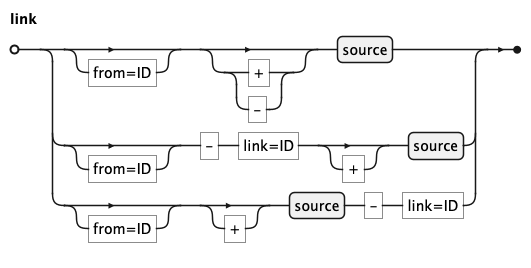
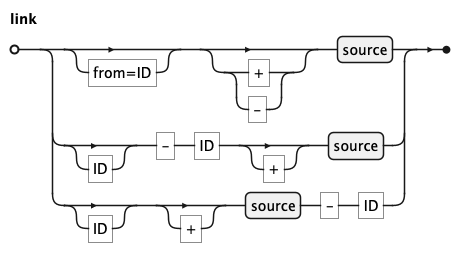
ebnf kql

diff --git a/docs/KQL_EBNF.md b/docs/KQL_EBNF.md
@@ -5,38 +5,38 @@
 
 ![query](kql/query.png )
 
-query is the root rule of KQL-Language
+Query is the root rule of KQL-Language
 - at least a query has one set
-- optionally a query hase one or more blocks
+- optionally a query has one or more blocks
 
 ## Block
 
 ![block](kql/block.png)
 
-block is an id followed by set or id followed by placeholder
+Block is an id followed by set or id followed by placeholder.
 
 ## Set
 
 ![set](kql/set.png)
 
-set is an operation on sets or a select
+Set is an operation on sets or a select.
 
 ## Select
 
 ![select](kql/select.png)
 
-select has four clauses:
+Select has four clauses:
 - FIND with one source optionally followed by a list of links
-- optionally FILTER clause
-- optionally FETCH clause
-- optionally LIMIT clause
+- optionally filter_ clause
+- optionally fetch_clause
+- optionally limit_clause
 
 
 ## Link
 
 ![link](kql/link.png)
 
-link has three alternatives:
+Link has three alternatives:
 - optionally from=ID of linked source, followed by source.
   If from=ID is missing, source is implicitly linked to the
   previous source in linklist.
@@ -49,23 +49,22 @@ source and criteria.
 Position of "-" indicates that the next ID is the criteria.
 This differentiates alternative two from three.
 
+## Logical Expression
+
+![logical_expression](kql/logical_expression.png)
+
+Logical_expression resolves to boolean result.
 
 ## Unary Logical Expression
 
 ![unary_logical_expression](kql/unary_logical_expression.png)
 
-
-## Logical Expression
-
-![logical_expression](kql/logical_expression.png)
-
-
-
-logical_expression to boolean result. It has four main alternatives:
+Unary_logical_expression resolves to boolean result. It has four main alternatives:
 - expression and operator optionally followed by an expression, a pair of expression or a set of expressions
 - recursive logical_expression in braces
 - exists clause
 - expression with placeholder, operation is optional, if missing placeholder must set operator too
+
 
 ## Limit Clause
 
@@ -78,6 +77,10 @@ logical_expression to boolean result. It has four main alternatives:
 ## Source
 
 ![source](kql/source.png)
+
+Source has two IDs:
+- frist name
+- second alias
 
 ## Filter Clause
 
@@ -106,6 +109,10 @@ logical_expression to boolean result. It has four main alternatives:
 ## Field
 
 ![field](kql/field.png)
+
+Source has two IDs:
+- frist alias
+- second name
 
 ## Window
 
